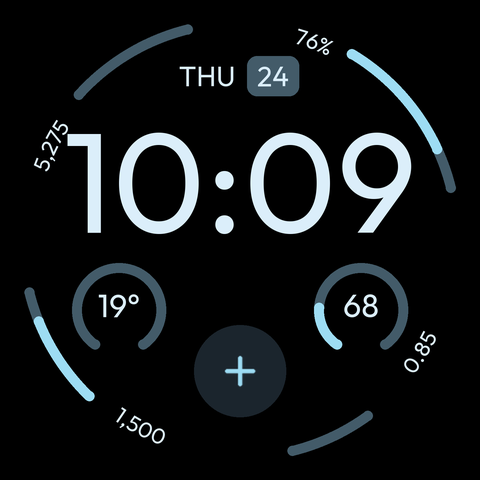
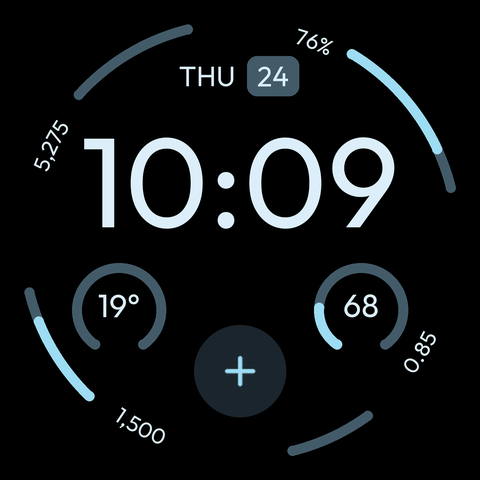
Prevent clock clipping and locate SDK tools reliably in CI

Changed region(s): [[0.5, 0.25, 0.875, 0.5], [0.125, 0.25, 0.4688, 0.5], [0.4375, 0.4375, 0.5, 0.5]]

diff --git a/tools/render_preview.py b/tools/render_preview.py
@@ -102,6 +102,11 @@ class Preview:
             if alpha != 255:
                 color = tuple(round(int(color[i:i+2], 16)*alpha/255) for i in (1, 3, 5))
             font = self.font(f)
+            if tag == "TimeText":
+                times = (f"{hour:02}:{minute:02}" for hour in range(24) for minute in range(60))
+                widest = max(times, key=font.getlength)
+                if font.getlength(widest) > w*SCALE:
+                    raise ValueError(f"Clock clips at {widest}; reduce font size or widen TimeText.")
             if circular is None:
                 self.draw.text(self.xy(x+w/2, y+h/2), value, font=font, fill=color, anchor="mm")
             else:

diff --git a/tools/generate_face.py b/tools/generate_face.py
@@ -105,7 +105,8 @@ def make_face():
     time = node(clock, "TimeText", x=0, y=0, width=378, height=134,
                 format="hh:mm", hourFormat="SYNC_TO_DEVICE", align="CENTER")
     node(time, "Variant", mode="AMBIENT", target="alpha", value=160)
-    node(time, "Font", family=FONT, size=142, color=COLOR)
+    # 00:00 is the widest time in Outfit; 128 keeps every 24h value inside 378 units.
+    node(time, "Font", family=FONT, size=128, color=COLOR)
 
     # WFF 2 requires ComplicationSlot to be a direct child of Scene.
     interactive = scene

diff --git a/docs/validation.md b/docs/validation.md
@@ -6,6 +6,7 @@ Checked locally on Windows 11 with JDK 17, Python 3.11, Android platform 36 and 
 - **APK build:** the SDK-only pipeline compiled and linked Android resources, aligned the APK, signed it with the local Android debug key and passed `apksigner verify`.
 - **Packaging:** `tools/check_apk.py` checks for no DEX code, required XML/font/image assets, unique complication IDs, complete supported-type rendering and compatible default providers.
 - **Assets:** images were generated from the checked-in XML and bundled font, then visually reviewed. The first-install preview has empty health slots. The ambient preview contains time and date only. These are approximate layout renders, not Android screenshots.
+- **Clock width:** all 1,440 HH:mm combinations are measured with the bundled font during preview generation. The initial font size clipped at midnight; it was reduced so even the widest time fits inside the clock's bounds.
 - **Reproducibility:** Gradle/AGP/SDK versions, Gradle distribution checksum, validator checksum, font source revision and Python image dependency are recorded. The source XML and images are committed and regenerated in CI to detect drift. Debug APKs are not promised to be byte-for-byte identical across different machines: signing keys and build metadata differ.
 
 Local Gradle dependency resolution could not complete because `dl.google.com` timed out. GitHub Actions provides the separate Gradle build and lint check; consult its actual run status before assuming it passed. The SDK-only APK build does not require those Maven downloads.
